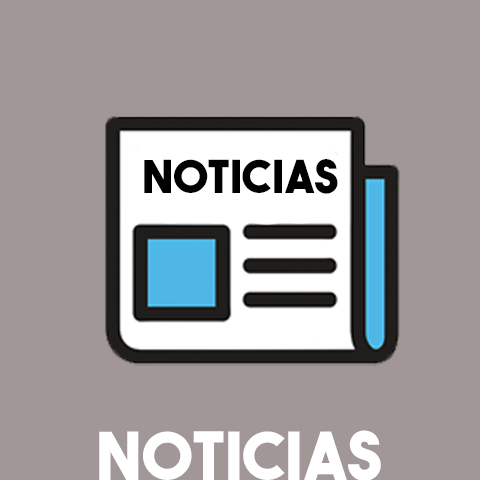
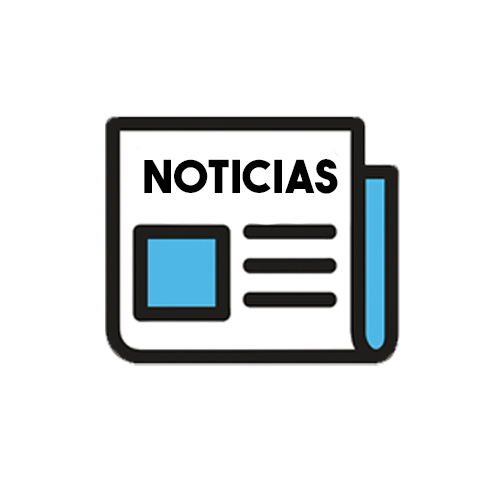
mejorando iconos

diff --git a/src/navigation/TabNavigator.tsx b/src/navigation/TabNavigator.tsx
@@ -17,10 +17,6 @@ import { useTheme, type AppTheme } from '../theme';
 import { LinearGradient } from 'expo-linear-gradient';
 
 const Tab = createBottomTabNavigator();
-const youtubeTabItemStyle: ViewStyle = {
-  justifyContent: 'center',
-  height: 72,
-};
 
 type RouteConfig = { name: string };
 type ScreenOptionsFactory = ({ route }: { route: RouteConfig }) => ReturnType<typeof createScreenOptions>;
@@ -53,18 +49,24 @@ export default TabNavigator;
 
 // ---------------- ICONOS ----------------
 
-// tamaño uniforme para todos los PNG
-const ICON_SIZE = 32;
+// Tamaño máximo para los iconos
+const ICON_SIZE = 52; // Maximizado para usar todo el espacio
+const IONICON_SIZE = 40; // Tamaño proporcionalmente mayor para los Ionicons
 
 const renderIcon = (src: any, focused: boolean) => (
-  <View style={{ width: ICON_SIZE, height: ICON_SIZE, alignItems: 'center', justifyContent: 'center' }}>
+  <View style={{ 
+    width: ICON_SIZE, 
+    height: ICON_SIZE, 
+    alignItems: 'center', 
+    justifyContent: 'center' 
+  }}>
     <Image
       source={src}
       style={{
         width: ICON_SIZE,
         height: ICON_SIZE,
         resizeMode: 'contain',
-        opacity: focused ? 1 : 0.85,
+        opacity: focused ? 1 : 0.7,
         transform: focused ? [{ scale: 1.08 }] : [{ scale: 1 }],
       }}
     />
@@ -89,13 +91,21 @@ const createScreenOptions = (t: AppTheme, routeName: string) => ({
   tabBarStyle: {
     backgroundColor: 'transparent',
     borderTopColor: 'transparent',
-    height: 72,
-    paddingBottom: 10,
-    paddingTop: 6,
+    height: 80,
+    paddingBottom: 0,
+    paddingTop: 5,
   },
-  tabBarShowLabel: false, // 👈 fuerza sin labels para todos
+  tabBarShowLabel: false, // Sin labels para todos
+  tabBarLabelStyle: {
+    display: 'none' as const, // Elimina completamente el espacio reservado para labels
+  },
+  tabBarIconStyle: {
+    marginTop: 14,
+    marginBottom: 14,
+  },
 
   tabBarIcon: ({ focused, color, size }: { focused: boolean; color: string; size: number }) => {
+    // Iconos PNG personalizados
     if (routeName === 'NewsList') {
       return renderIcon(require('../../assets/iconos/noticias.png'), focused);
     }
@@ -106,7 +116,7 @@ const createScreenOptions = (t: AppTheme, routeName: string) => ({
       return (
         <Ionicons
           name={(focused ? 'mic' : 'mic-outline') as keyof typeof Ionicons.glyphMap}
-          size={size}
+          size={IONICON_SIZE}
           color={color}
         />
       );
@@ -121,19 +131,15 @@ const createScreenOptions = (t: AppTheme, routeName: string) => ({
       return renderIcon(require('../../assets/iconos/contacto.png'), focused);
     }
 
-    // resto usa Ionicons
+    // Resto usa Ionicons
     return (
       <Ionicons
         name={iconForRoute(routeName) as keyof typeof Ionicons.glyphMap}
-        size={size}
+        size={IONICON_SIZE}
         color={color}
       />
     );
   },
-
-  ...((routeName === 'YouTubeChannel' || routeName === 'SergioPalazzoInterviews') && {
-    tabBarItemStyle: youtubeTabItemStyle,
-  }),
 
   tabBarBackground: () => (
     <LinearGradient

diff --git a/src/screens/videos/YouTubeChannelScreen.tsx b/src/screens/videos/YouTubeChannelScreen.tsx
@@ -11,6 +11,10 @@ import {
   Alert,
 } from "react-native";
 import YoutubeIframe from "react-native-youtube-iframe";
+import { SafeAreaView } from "react-native-safe-area-context";
+import MaskedView from "@react-native-masked-view/masked-view";
+import { LinearGradient } from "expo-linear-gradient";
+import { spacing } from "../../theme/spacing";
 
 const CHANNEL_ID_BANCARIA = "UC7H5j0h7NgTqCV4qnLHsqfg"; // La Bancaria Prensa y Difusión
 const CHANNEL_ID_RADIOGRAFICA = "UCHJ-iCyE3kG7xcFkwbBT19A"; // Radio Gráfica
@@ -184,12 +188,32 @@ export default function YouTubeChannelScreen() {
     }
   };
 
+  const wrapWithSafeArea = (content: React.ReactNode) => (
+    <SafeAreaView style={[styles.safeArea, { backgroundColor: "transparent" }]}>
+      <MaskedView
+        style={styles.maskContainer}
+        maskElement={
+          <View style={styles.maskWrapper}>
+            <LinearGradient
+              colors={["rgba(0,0,0,0)", "rgba(0,0,0,1)"]}
+              locations={[0, 0.4]}
+              style={styles.maskGradient}
+            />
+            <View style={styles.maskFill} />
+          </View>
+        }
+      >
+        {content}
+      </MaskedView>
+    </SafeAreaView>
+  );
+
   useEffect(() => {
     loadContent();
   }, []);
 
   if (loading) {
-    return (
+    return wrapWithSafeArea(
       <View style={styles.loadingContainer}>
         <ActivityIndicator size="large" color="#1976d2" />
         <Text style={styles.loadingText}>Cargando videos...</Text>
@@ -198,7 +222,7 @@ export default function YouTubeChannelScreen() {
   }
 
   if (error && !currentVideoId) {
-    return (
+    return wrapWithSafeArea(
       <View style={styles.errorContainer}>
         <Text style={styles.errorText}>Error al cargar el contenido</Text>
         <Text style={styles.errorSubtext}>{error}</Text>
@@ -214,7 +238,7 @@ export default function YouTubeChannelScreen() {
   // Calculate player height based on 16:9 aspect ratio + space for title
   const playerHeight = Math.round((screenWidth * 9) / 16) + 50;
 
-  return (
+  return wrapWithSafeArea(
     <View style={styles.container}>
       {/* YouTube Player - Aspect Ratio Based */}
       <View style={[styles.playerContainer, { height: playerHeight }]}>
@@ -282,6 +306,23 @@ export default function YouTubeChannelScreen() {
 }
 
 const styles = StyleSheet.create({
+  safeArea: {
+    flex: 1,
+  },
+  maskContainer: {
+    flex: 1,
+  },
+  maskWrapper: {
+    flex: 1,
+  },
+  maskGradient: {
+    width: "100%",
+    height: spacing.xl * 2,
+  },
+  maskFill: {
+    flex: 1,
+    backgroundColor: "#000",
+  },
   container: {
     flex: 1,
     backgroundColor: "#fff",

diff --git a/src/screens/videos/SergioPalazzoInterviewsScreen.tsx b/src/screens/videos/SergioPalazzoInterviewsScreen.tsx
@@ -11,6 +11,10 @@ import {
   Alert,
 } from 'react-native';
 import YoutubeIframe from 'react-native-youtube-iframe';
+import { SafeAreaView } from 'react-native-safe-area-context';
+import MaskedView from '@react-native-masked-view/masked-view';
+import { LinearGradient } from 'expo-linear-gradient';
+import { spacing } from '../../theme/spacing';
 
 // Channel ID correcto para @sergioomarpalazzo503
 const CHANNEL_ID_SERGIO_PALAZZO = 'UCgb1ohZVSqOHGqe1kHi571g';
@@ -229,12 +233,32 @@ export default function SergioPalazzoInterviewsScreen() {
     }
   };
 
+  const wrapWithSafeArea = (content: React.ReactNode) => (
+    <SafeAreaView style={[styles.safeArea, { backgroundColor: 'transparent' }]}>
+      <MaskedView
+        style={styles.maskContainer}
+        maskElement={
+          <View style={styles.maskWrapper}>
+            <LinearGradient
+              colors={['rgba(0,0,0,0)', 'rgba(0,0,0,1)']}
+              locations={[0, 0.4]}
+              style={styles.maskGradient}
+            />
+            <View style={styles.maskFill} />
+          </View>
+        }
+      >
+        {content}
+      </MaskedView>
+    </SafeAreaView>
+  );
+
   useEffect(() => {
     void loadContent();
   }, []);
 
   if (loading) {
-    return (
+    return wrapWithSafeArea(
       <View style={styles.loadingContainer}>
         <ActivityIndicator size="large" color="#1976d2" />
         <Text style={styles.loadingText}>Cargando entrevistas de Sergio Palazzo...</Text>
@@ -243,7 +267,7 @@ export default function SergioPalazzoInterviewsScreen() {
   }
 
   if (error && !currentVideo) {
-    return (
+    return wrapWithSafeArea(
       <View style={styles.errorContainer}>
         <Text style={styles.errorText}>Error al cargar el contenido</Text>
         <Text style={styles.errorSubtext}>{error}</Text>
@@ -257,7 +281,7 @@ export default function SergioPalazzoInterviewsScreen() {
   const screenWidth = Dimensions.get('window').width;
   const playerHeight = Math.round((screenWidth * 9) / 16) + 50;
 
-  return (
+  return wrapWithSafeArea(
     <View style={styles.container}>
       <View style={[styles.playerContainer, { height: playerHeight }]}>
         {currentVideo ? (
@@ -344,6 +368,23 @@ export default function SergioPalazzoInterviewsScreen() {
 }
 
 const styles = StyleSheet.create({
+  safeArea: {
+    flex: 1,
+  },
+  maskContainer: {
+    flex: 1,
+  },
+  maskWrapper: {
+    flex: 1,
+  },
+  maskGradient: {
+    width: '100%',
+    height: spacing.xl * 2,
+  },
+  maskFill: {
+    flex: 1,
+    backgroundColor: '#000',
+  },
   container: {
     flex: 1,
     backgroundColor: '#fff',
